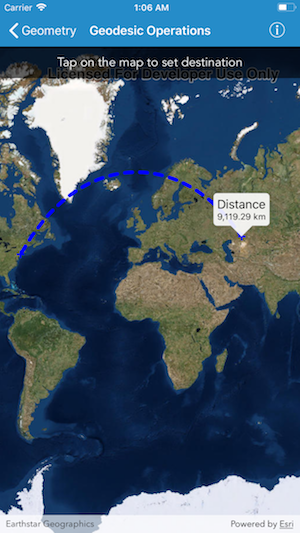
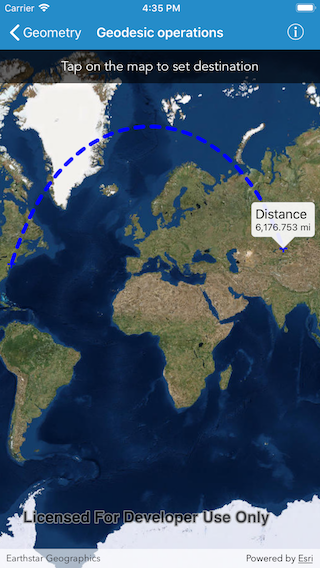
PR review changes

diff --git a/arcgis-ios-sdk-samples/Geometry/Geodesic operations/GeodesicOperationsViewController.swift b/arcgis-ios-sdk-samples/Geometry/Geodesic operations/GeodesicOperationsViewController.swift
@@ -17,13 +17,38 @@ import ArcGIS
 
 class GeodesicOperationsViewController: UIViewController, AGSGeoViewTouchDelegate {
 
-    @IBOutlet private var mapView:AGSMapView!
-
-    private var graphicsOverlay = AGSGraphicsOverlay()
-    private var originGraphic: AGSGraphic!
-    private var destinationGraphic: AGSGraphic!
-    private var pathGraphic: AGSGraphic!
-    let JFKAirportLocation = AGSPoint(x: -73.7781, y: 40.6413, spatialReference: AGSSpatialReference.wgs84())
+    @IBOutlet private var mapView: AGSMapView!
+    
+    private let destinationGraphic: AGSGraphic
+    private let pathGraphic: AGSGraphic
+    
+    private let graphicsOverlay = AGSGraphicsOverlay()
+    private let measurementFormatter = MeasurementFormatter()
+    private let JFKAirportLocation = AGSPoint(x: -73.7781, y: 40.6413, spatialReference: AGSSpatialReference.wgs84())
+    
+    /// Add graphics to graphics overlay.
+    required init?(coder aDecoder: NSCoder) {
+        // Create graphic symbols.
+        let locationMarker = AGSSimpleMarkerSymbol(style: .cross, color: .blue, size: 10)
+        let pathSymbol = AGSSimpleLineSymbol(style: .dash, color: .blue, width: 5)
+        
+        // Create an origin graphic.
+        let originGraphic = AGSGraphic(geometry: JFKAirportLocation, symbol: locationMarker, attributes: nil)
+        
+        // Create a destination graphic.
+        destinationGraphic = AGSGraphic(geometry: nil, symbol: locationMarker, attributes: nil)
+        
+        // Create a graphic to represent geodesic path between origin and destination.
+        pathGraphic = AGSGraphic(geometry: nil, symbol: pathSymbol, attributes: nil)
+        
+        super.init(coder: aDecoder)
+        
+        // Add graphics to graphics overlay.
+        graphicsOverlay.graphics.add(originGraphic)
+        graphicsOverlay.graphics.add(destinationGraphic)
+        graphicsOverlay.graphics.add(pathGraphic)
+    }
+    
     
     override func viewDidLoad() {
         super.viewDidLoad()
@@ -32,38 +57,18 @@ class GeodesicOperationsViewController: UIViewController, AGSGeoViewTouchDelegat
         (self.navigationItem.rightBarButtonItem as! SourceCodeBarButtonItem).filenames = ["GeodesicOperationsViewController"]
         
         // Initialize map with imagery basemap.
-        let map = AGSMap(basemap: AGSBasemap.imagery())
+        let map = AGSMap(basemap: .imagery())
         
-        // Assign map to map view.
+        // Assign the map to the map view.
         mapView.map = map
         
-        // Add graphics overlay to the map view.
-        mapView.graphicsOverlays.add(self.graphicsOverlay)
+        // Add the graphics overlay to the map view.
+        mapView.graphicsOverlays.add(graphicsOverlay)
         
         // Set map view touch delegate to self.
         mapView.touchDelegate = self
-        
-        // Add origin graphic, destination graphic, and path graphic.
-        addGraphics()
     }
     
-    func addGraphics() {
-        // Create graphic symbols.
-        let locationMarker = AGSSimpleMarkerSymbol(style: .cross, color: .blue, size: 10)
-        let pathSymbol = AGSSimpleLineSymbol(style: .dash, color: .blue, width: 5)
-        
-        // Create origin graphic.
-        let originGraphic = AGSGraphic(geometry: JFKAirportLocation, symbol: locationMarker, attributes: nil)
-        graphicsOverlay.graphics.add(originGraphic)
-        
-        // Create destination graphic.
-        destinationGraphic = AGSGraphic(geometry: nil, symbol: locationMarker, attributes: nil)
-        graphicsOverlay.graphics.add(destinationGraphic)
-    
-        // Create graphic to represent geodesic path between origin and destination.
-        pathGraphic = AGSGraphic(geometry: nil, symbol: pathSymbol, attributes: nil)
-        graphicsOverlay.graphics.add(pathGraphic)
-    }
     
     // MARK: - AGSGeoViewTouchDelegate
     
@@ -97,9 +102,10 @@ class GeodesicOperationsViewController: UIViewController, AGSGeoViewTouchDelegat
         
         // Display the distance in mapview's callout.
         mapView.callout.title = "Distance"
-        mapView.callout.detail = String(format: "%.2f km", locale: Locale.current, distance)
+        let measurement = Measurement<UnitLength>(value: distance, unit: .kilometers)
+        mapView.callout.detail = measurementFormatter.string(from: measurement)
         mapView.callout.isAccessoryButtonHidden = true
-        mapView.callout.show(at: mapPoint, screenOffset: CGPoint.zero, rotateOffsetWithMap: false, animated: true)
+        mapView.callout.show(at: mapPoint, screenOffset: .zero, rotateOffsetWithMap: false, animated: true)
     }
 
 }

diff --git a/arcgis-ios-sdk-samples/Geometry/Geodesic operations/README.md b/arcgis-ios-sdk-samples/Geometry/Geodesic operations/README.md
@@ -15,9 +15,9 @@ Visualizing flight paths between cities is a common example of a geodesic operat
 ## How it works
 
 1. Create an instance of `AGSPolyline` using two points.
-2. Densify the Polyline using the `densifyGeodetic(geometry:maxSegmentLength:lengthUnit:curveType:)` method on `AGSGeometryEngine`. This method will return a geodetically densified geometry.
+2. Densify the Polyline using the `geodeticDensifyGeometry(_:maxSegmentLength:lengthUnit:curveType:)` method on `AGSGeometryEngine`. This method will return a geodetically densified geometry.
 3. Set this geometry to a Graphic to display the geodesic path between two points in a Graphics Overlay.
-4. Get the geodetic distance of the path using the `lengthGeodetic(geometry:lengthUnit:curveType)` method on `AGSGeometryEngine`.
+4. Get the geodetic distance of the path using the `geodeticLength(of:lengthUnit:curveType:)` method on `AGSGeometryEngine`.
 
 ## Relevant API
 
